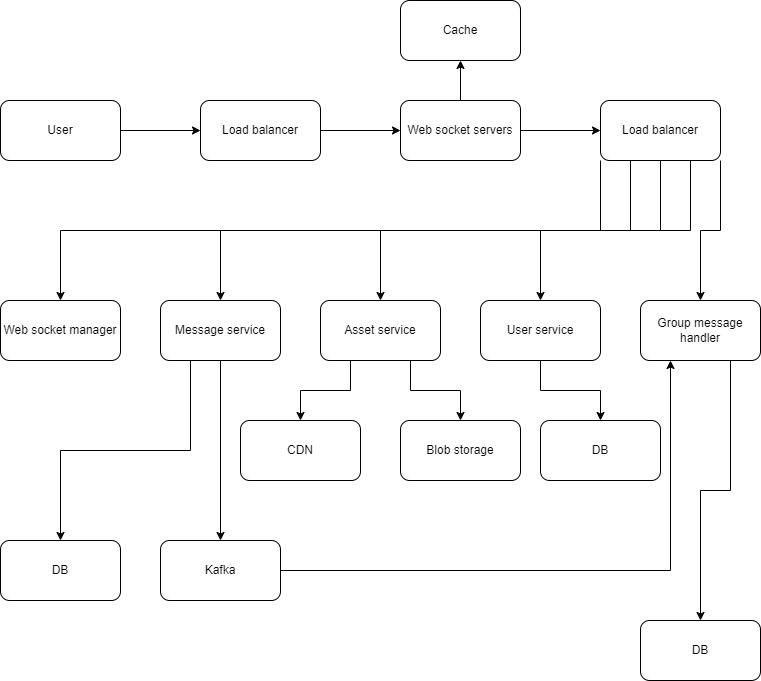
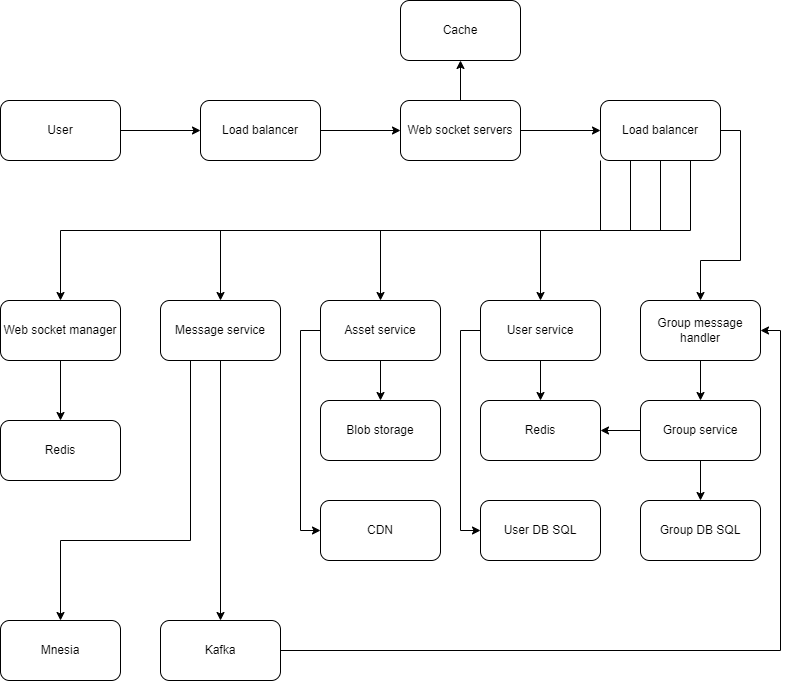
Update Requirement notes

diff --git a/other/system-design.html b/other/system-design.html
@@ -2802,6 +2802,9 @@
     <h4 class="card-title">Non-functional</h4>
     <ul>
       <li>Availability.</li>
+      <ul>
+        <li>Can be compromised for causal consistency.</li>
+      </ul>
       <li>Reliability.</li>
       <li>Scalability.</li>
       <li>Performance.</li>
@@ -2834,7 +2837,7 @@
         <li>Each message is 100 bytes.</li>
         <li>Whatsapp keeps messages for 30 days only.</li>
       </ul>
-      <li>10 0B per day * 100 bytes = 10 TB per day.</li>
+      <li>100 B per day * 100 bytes = 10 TB per day.</li>
       <li>300 TB per month</li>
     </ul>
 
@@ -2874,20 +2877,50 @@
     </ul>
 
     <h3 class="card-title">Component design</h3>
+    <img class="img-fluid" class="card-img-top" src="/img/system-design/whatsapp2.png" alt="Card image cap">
+    <br>
+    <br>
 
-    <h4 class="card-title"></h4>
+    <h4 class="card-title">Websocket server</h4>
     <ul>
       <li>Web socket server keeps connection open with all active users.</li>
       <li>These servers provide a port to every online user.</li>
       <li>Web socket manager maintains mapping between port and user.</li>
-      <li>Message service provides API to handle messages.</li>
-      <li>Asset service provides API to handle media files.</li>
-      <li>Group messages are handled by group message handler, Group message service, Kafka.</li>
+    </ul>
+
+    <h4 class="card-title">Message service</h4>
+    <ul>
+      <li>Interface to Mnesia DB.</li>
+      <li>store and retriev messages from Mnesia DB.</li>
+    </ul>
+
+    <h4 class="card-title">Asset service</h4>
+    <ul>
+      <li>Similar to message service, but for files.</li>
+    </ul>
+
+    <h4 class="card-title">Group service</h4>
+    <ul>
+      <li>Keep all information about users in each group.</li>
+      <li>store and retriev messages from Mnesia DB.</li>
+    </ul>
+
+    <h4 class="card-title">Group message handler</h4>
+    <ul>
+      <li>Similar to Websocket server, but for group messages.</li>
+    </ul>
+
+    <h4 class="card-title">Kafka</h4>
+    <ul>
+      <li>Message service sends messages to Kafka, to be saved for further processing.</li>
     </ul>
 
     <h3 class="card-title">Evaluation</h3>
 
     <h4 class="card-title">Availability</h4>
+    <ul>
+      <li>Websocket servers are replicated.</li>
+    </ul>
 
     <h4 class="card-title">Reliability</h4>
 
